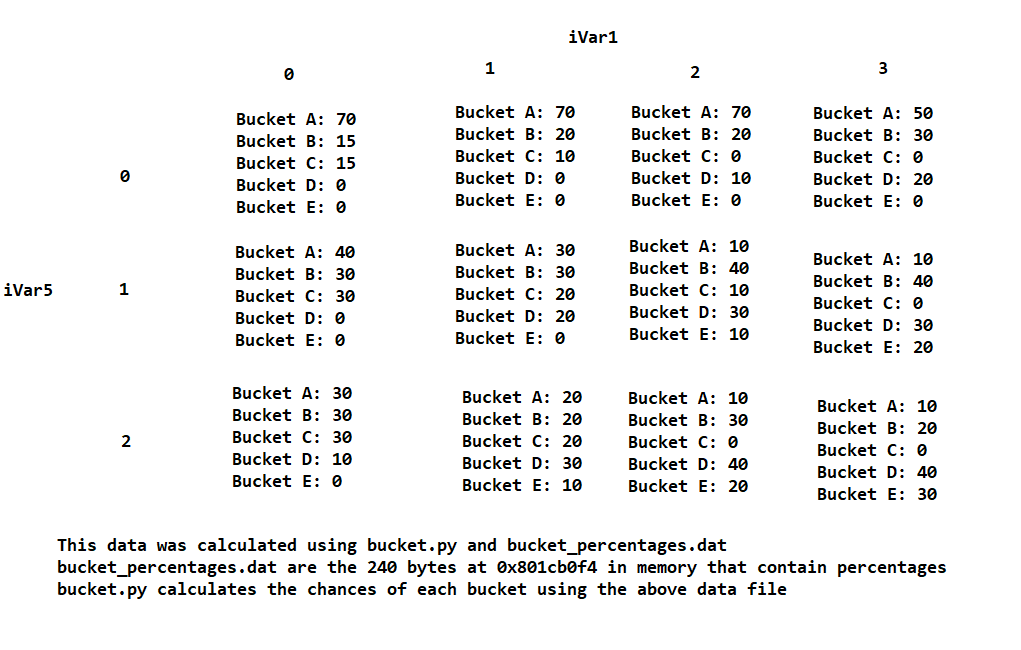
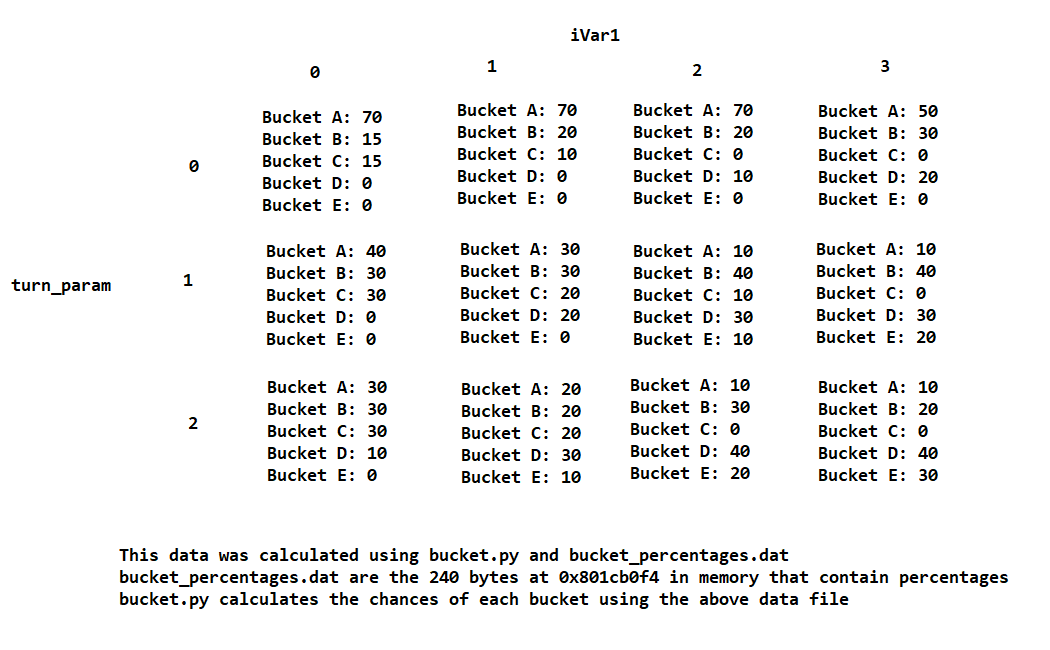
Identify turn_param modifier

diff --git a/turns.py b/turns.py
@@ -1,0 +1,29 @@
+# 
+"""
+Prints out the turn_param for bucket percentage modifiers. turn_param is calculated
+using a formula of the total number of turns in the game compared to the current turn
+number. The total number of turns must be between 10 and 50 turns. This is enforced
+by the game itself.
+
+Usage:
+python turns.py {TOTAL_NUM_OF_TURNS} {CURRENT_TURN}
+
+Example:
+python turns.py 20 5
+"""
+import sys
+
+TOTAL_NUM_OF_TURNS = int(sys.argv[1])
+CURRENT_TURN = int(sys.argv[2])
+
+DAT_801cb1e4 = [0xa, 0xf, 0x14, 0x19, 0x1e, 0x23, 0x28, 0x2d, 0x32]
+DAT_801cb208 = [0x3, 0x6, 0x5, 0xa, 0x5, 0xf, 0x8, 0x10, 0xa, 0x14, 0xa, 0x14, 0xd, 0x1a, 0xf, 0x1e, 0xf, 0x23]
+
+index4 = 0
+while (index4 < 8 and DAT_801cb1e4[index4] < TOTAL_NUM_OF_TURNS):
+    index4 = index4 + 1
+#print("index4: {}".format(index4))
+iVar4 = 0
+while (iVar4 < 2 and DAT_801cb208[iVar4 + index4 * 2] <= CURRENT_TURN):
+    iVar4 = iVar4 + 1
+print("turn_param: {}".format(iVar4))

diff --git a/README.md b/README.md
@@ -184,7 +184,9 @@ So what happens is that first the game determines what Bucket you'll be using. E
 - Bucket D: 0%
 - Bucket E: 0%
 
-The game then may apply modifiers which change these. There are two modifiers, which have yet to be identified. They are currently called `iVar1` and `iVar5`. The two result in the following table of percentages:
+The game then may apply modifiers which change these. There are two modifiers, one of which is understood and the other which is not yet understood. The identified modifier is called `turn_param`. This modifier is a number between 0 and 2, calculated as a proportion of the number of turns left compared to the total number of turns. A python script has been included that will return the `turn_param` given the current turn number and total number of turns. You can find it in this repository under `turns.py`.
+
+The other modifier is called `iVar1` which has yet to be identified.
 
 ![Bucket Percentages](/img/bucket.PNG?raw=true "Bucket Percentages")
 
